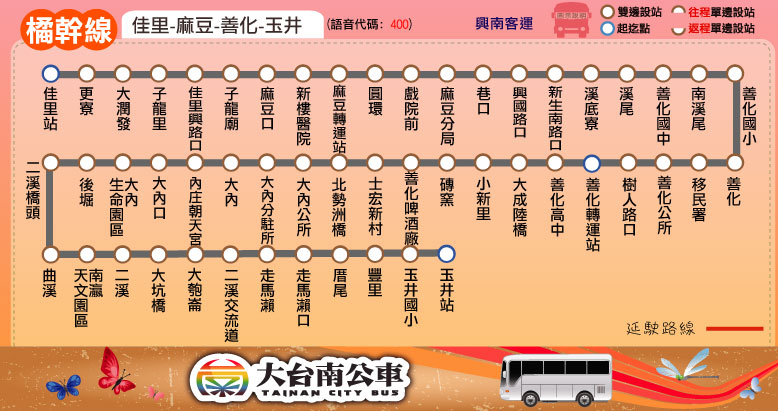
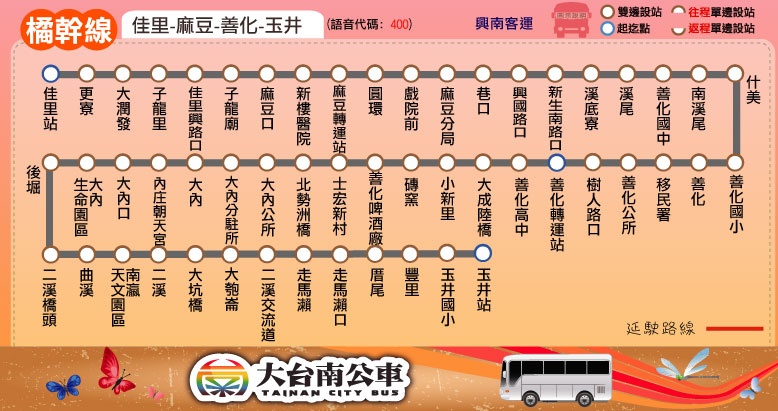
新增站點：橘幹線、橘12 「什美」

diff --git a/route/fare_and_time/orange.js b/route/fare_and_time/orange.js
@@ -4,7 +4,7 @@ orange_interval_stop = [
 ["子龍里","佳里興路口","子龍廟"], // 子龍廟
 ["麻豆口","新樓醫院","麻豆轉運站","圓環","戲院前","麻豆分局","巷口","興國路口","新生南路口"], // 麻豆
 ["溪底寮","溪尾","善化國中","南溪尾"], // 溪尾
-["善化國小","善化","移民署","善化公所","樹人路口"], // 善化
+["什美","善化國小","善化","移民署","善化公所","樹人路口"], // 善化
 ["善化轉運站","善化高中","大成陸橋"], // 善化轉運站
 ["小新里","磚窯","善化啤酒廠","士宏新村","北勢洲橋"], // 小新營
 ["大內公所","大內分駐所","大內","內庄朝天宮","大內口","大內生命園區","後堀"], // 大內
